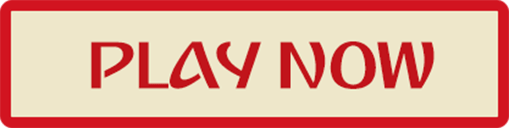
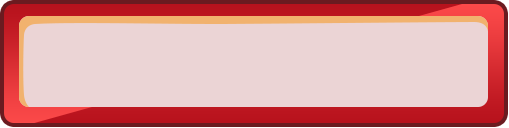
Squad ready, language ready synchronized with website

diff --git a/app.js b/app.js
@@ -30,8 +30,10 @@ var userLang = navigator.language || navigator.userLanguage;
 
 
 var debugMode = false;
-var text = (userLang ==='en-US')?{
-//var text = (userLang ==='vi-vn')?{
+var arrLang = 
+{
+	'en-US':{
+//var text = (userLang ==='vi-VN')?{
 	game_question:"WHICH TEAM IS THIS?",
 	point_txt:"POINTS",
 	score_txt:'SCORE',
@@ -47,7 +49,7 @@ var text = (userLang ==='en-US')?{
 	end_game_txt:"End Game",
 	see_answer_txt:"See Answer",
 	continue_txt:"Continue",
-	continue_txt:"Next",
+	next_txt:"Next",
 	rank_txt:'RANK',
 	score_txt:'SCORE',
 	leaderboard_txt:'LEADERBOARD',
@@ -55,12 +57,15 @@ var text = (userLang ==='en-US')?{
 	time_up_txt:"TIME'S UP",
 	correct_answer:"CORRECT!",
 	play_again_txt:"PLAY AGAIN",
-	how_to_play_txt:"HOW TO PLAY"
-}:{
-	game_question:"ĐOÁN TÊN TUYỂN QUỐC GIA",    
+	how_to_play_txt:"HOW TO PLAY",
+	language_txt:"LANGUAGE",
+	play_now_txt:"PLAY NOW"
+},
+	'vi-VN':{
+	game_question:"ĐOÁN TÊN TUYỂN QUỐC GIA",
 	point_txt:"Điểm",
 	score_txt:'Tổng Điểm',
-	time_txt:'TIME',
+	time_txt:'TG',
 	click_to_open:'Lật xem CLB',
 	show_answer_txt:'Xem Đáp Án',
 	choose_answer_here_txt:'Chọn Kết Quả',
@@ -72,7 +77,7 @@ var text = (userLang ==='en-US')?{
 	end_game_txt:"Kết Thúc",
 	see_answer_txt:"Xem Kết Quả",
 	continue_txt:"Chơi Tiếp",
-	continue_txt:"Vòng Sau",
+	next_txt:"Tiếp",
 	rank_txt:'Thứ Hạng',
 	score_txt:'Tổng Điểm',
 	leaderboard_txt:'Bảng Xếp Hạng',
@@ -80,8 +85,16 @@ var text = (userLang ==='en-US')?{
 	time_up_txt:"Hết Giờ!",
 	correct_answer:"CHUẨN LUÔN!",
 	play_again_txt:"CHƠI LẠI",
-	how_to_play_txt:"HƯỚNG DẪN"
-};
+	how_to_play_txt:"HƯỚNG DẪN",
+	language_txt:"Ngôn Ngữ",
+	play_now_txt:"CHƠI"
+}};
+
+var text = arrLang['en-US'];//default
+function setLanguage(){
+	if(userLang)
+		text = arrLang[userLang];
+}
 
 
 
@@ -99,6 +112,7 @@ function getUserInfo(){
 
 	var token = getQueryVariable('access_token');
 	var user_id = getQueryVariable('user_id');
+	userLang = getQueryVariable('lang');
 	//var base_url = "http://code.ttab.me:51167";
 	var base_url = "https://api.ttab.me";
 
@@ -119,8 +133,6 @@ function getUserInfo(){
 	}
 
 	$.ajax(settings).done(function (response) {
-		//console.log(response.user.username);	
-	  	//console.log(response.user.id + response.user.nickname);
 	  user.id = response.user.id;
 	  user.name = response.user.nickname;
 	  if(response.user.username){
@@ -133,7 +145,7 @@ function getUserInfo(){
 
 
 function openLinkToSquad(team_id){
-	var base_url = 'https://footballx.live/t/id';
+	var base_url = 'https://footballx.live/t/';
 	window.open(base_url+team_id);
 }
 
@@ -1902,15 +1914,18 @@ function ButtonName(x,y,name,h=60){
 
 var splash = {
 	playButton:new Button('Play Button',WIDTH/2-481,HEIGHT/2+410,false,true),
+	languageButton:new Button('Language Button',WIDTH/2-694,HEIGHT/2+42),
 	leaderboardButton:new Button('Leaderboard Button',WIDTH/2-694,HEIGHT/2+123),
 	shareButton:new Button('Share Button',WIDTH/2-694,HEIGHT/2+205),
 	tipButton:new Button('Tip Button',WIDTH/2-694,HEIGHT/2+286),
 
-	displayButton1:new ButtonName(WIDTH/2-694,HEIGHT/2+123,'LEADERBOARD'),
+	displayButton0:new ButtonName(WIDTH/2-694,HEIGHT/2+42,text.language_txt),
+	displayButton1:new ButtonName(WIDTH/2-694,HEIGHT/2+123,text.leaderboard_txt),
 	displayButton2:new ButtonName(WIDTH/2-694,HEIGHT/2+205,'SHARE'),
-	displayButton3:new ButtonName(WIDTH/2-694,HEIGHT/2+286,'HOW TO PLAY'),
+	displayButton3:new ButtonName(WIDTH/2-694,HEIGHT/2+286,text.how_to_play_txt),
 	onpress:function(x,y){
 		this.playButton.press(x,y);
+		this.languageButton.press(x,y);
 		this.leaderboardButton.press(x,y);
 		this.shareButton.press(x,y);
 		this.tipButton.press(x,y);
@@ -1918,6 +1933,7 @@ var splash = {
 	onmousemove:function(x,y){
 		this.playButton.hover(x,y);
 
+		this.languageButton.hover(x,y);
 		this.leaderboardButton.hover(x,y);
 
 		this.shareButton.hover(x,y);
@@ -1925,6 +1941,7 @@ var splash = {
 	},
 	onrelease:function(){
 		this.playButton.release();
+		this.languageButton.release();
 		this.leaderboardButton.release();
 		this.shareButton.release();
 		this.tipButton.release();
@@ -1939,9 +1956,15 @@ var splash = {
 	update:function(){
 
 		this.playButton.update();
+		this.languageButton.update();
 		this.leaderboardButton.update();
 		this.shareButton.update();
 		this.tipButton.update();
+		if(this.languageButton.state === this.languageButton.states.HOVER){
+			this.displayButton0.show();
+		}else{
+			this.displayButton0.hide();
+		}
 		if(this.leaderboardButton.state === this.leaderboardButton.states.HOVER){
 			this.displayButton1.show();
 		}else{
@@ -1962,9 +1985,9 @@ var splash = {
 			currentState = states.Hint;
 			displayLevel.show(text.stage_txt);
 		}
+		if(this.languageButton.isTriggered()){
+		}
 		if(this.leaderboardButton.isTriggered()){
-
-			//promptScenes["Leaderboard"].loadScore();
 			promptScenes["Leaderboard"].show();
 		}
 		if(this.shareButton.isTriggered())
@@ -1975,17 +1998,30 @@ var splash = {
 	,draw:function(){
 		//drawImage("BackgroundMenu",WIDTH/2,HEIGHT/2);
 
+		//this.displayButton0.draw();
 		this.displayButton1.draw();
 		this.displayButton2.draw();
 		this.displayButton3.draw();
 
 		this.playButton.draw();
+		drawText(text.play_now_txt,WIDTH/2-481,HEIGHT/2+430,'#c1141b',80*this.playButton.scale+this.playButton.breadth);
+		//this.languageButton.draw();
 		this.leaderboardButton.draw();
 		this.shareButton.draw();
 		this.tipButton.draw();
 
 	}
 };
+
+
+
+
+
+
+
+
+
+
 var promptScenes = {};
 
 function onpress(evt){
@@ -2097,6 +2133,7 @@ function sound(src) {
 
 function loadSound(name){
 	sounds[name] = new sound('assets/sounds/'+name+'.mp3');
+	sounds[name].muted = 'true';
 }
 
 function loadImage(name,src = ""){
@@ -2132,7 +2169,7 @@ function loadAsset(){
 	loadSound('Leaderboard'); 
 	loadSound('Button'); 
 
-	totalResources = 23 + gamedata.clubs.length;
+	totalResources = 24 + gamedata.clubs.length;
 	//load assets from server
 	loadImage('Background');
 	loadImage('BackgroundMenu');
@@ -2142,12 +2179,11 @@ function loadAsset(){
 	loadImage('LogoWC');
 	loadImage('OfficialMascot');
 	loadImage('ClockIcon');
-//	loadImage('TriangleButton');
 	loadImage('OKButton');
-//	loadImage('HiddenPosition_hint');//10
 	loadImage('HiddenPosition_bright');
 	loadImage('HiddenPosition');
 	loadImage('Play Button');
+	loadImage('Language Button');
 	loadImage('Leaderboard Button');
 	loadImage('Leaderboard Background');
 	loadImage('Share Button');
@@ -2283,6 +2319,7 @@ function init(l){
 	level = l;
 	//console.log(teams._teams);
 	frame = 0;
+	setLanguage();
 	hiddenpositions.init();
 	clock.init(30);
 	score.init();

diff --git a/index.html b/index.html
@@ -1,26 +1,24 @@
 <!DOCTYPE html>
-<html>
+<html lang='en'>
 <head>
-	<title>Which Team Is This?</title>
 
+	<title>Which Team Is This?</title>
 	<meta charset="utf-8">
 	<meta http-equiv="cache-control" content="private, no-cache, no-store, must-revalidate, max-age=0" />
  	<meta http-equiv="Pragma" content="no-cache" />
  	<meta http-equiv="Expires" content="0" />
 
-
 	<script src="https://cdn.firebase.com/js/client/2.3.0/firebase.js"></script>
 	<script src="https://ajax.googleapis.com/ajax/libs/jquery/3.3.1/jquery.min.js"></script>
-
 	<link rel="stylesheet" type="text/css" href="main.css">
+
+
 </head>
 <body style="background-color:#117864">
 
 <canvas id="canvasBg"></canvas>
 <canvas id="canvas" ></canvas>
 <script type="text/javascript" src="app.js"></script>
-
-
 <div id="fb-root"></div>
 
 </body>

diff --git a/README.md b/README.md
@@ -54,5 +54,6 @@ tomorrow:
 	-> multiple records for scores
 	-> improve the effect
 	-> tim cach fix problem of size
-	-> DOMException: play() failed because the user didn't interact with the document first.
+	//-> DOMException: play() failed because the user didn't interact with the document first.
 
+	-> design lai cai hidden position . cho hieu ung bong bay len tren.
